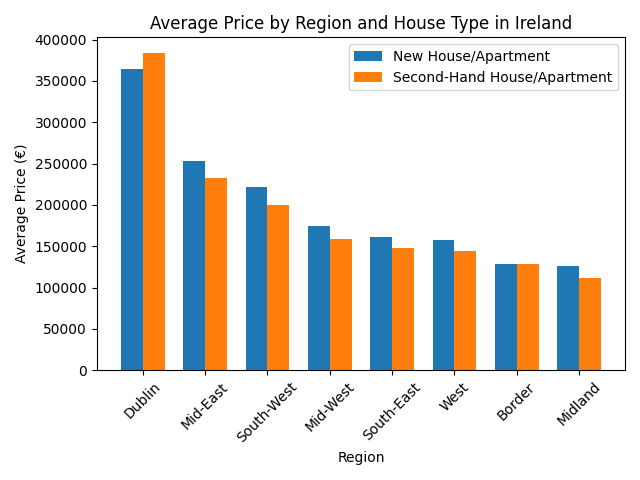
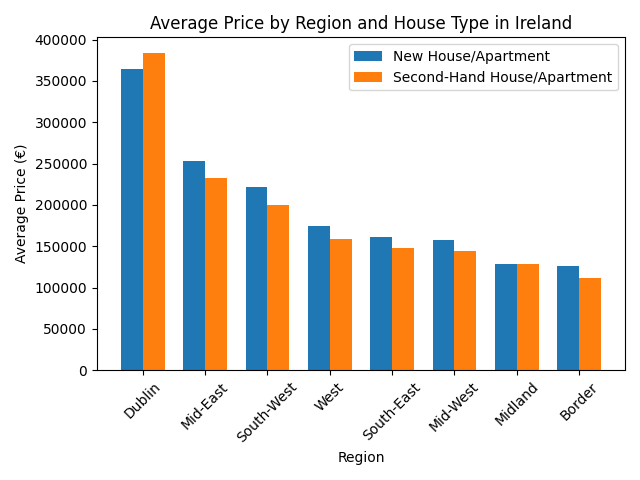
Sixteenth commit

diff --git a/main.py b/main.py
@@ -127,7 +127,7 @@ price_by_region_type = df2.groupby(['Region', 'Description of Property'])['Price
 price_by_region_type = price_by_region_type.sort_values('Price (€)', ascending=False)
 new = price_by_region_type[price_by_region_type['Description of Property'] == 'New Dwelling house /Apartment'].reset_index()
 second_hand = price_by_region_type[price_by_region_type['Description of Property'] == 'Second-Hand Dwelling house /Apartment'].reset_index()
-region_list = price_by_region_type['Region'].unique()
+region_list = second_hand['Region'].unique()
 print(region_list)
 
 x = np.arange(len(region_list))  # the label locations
